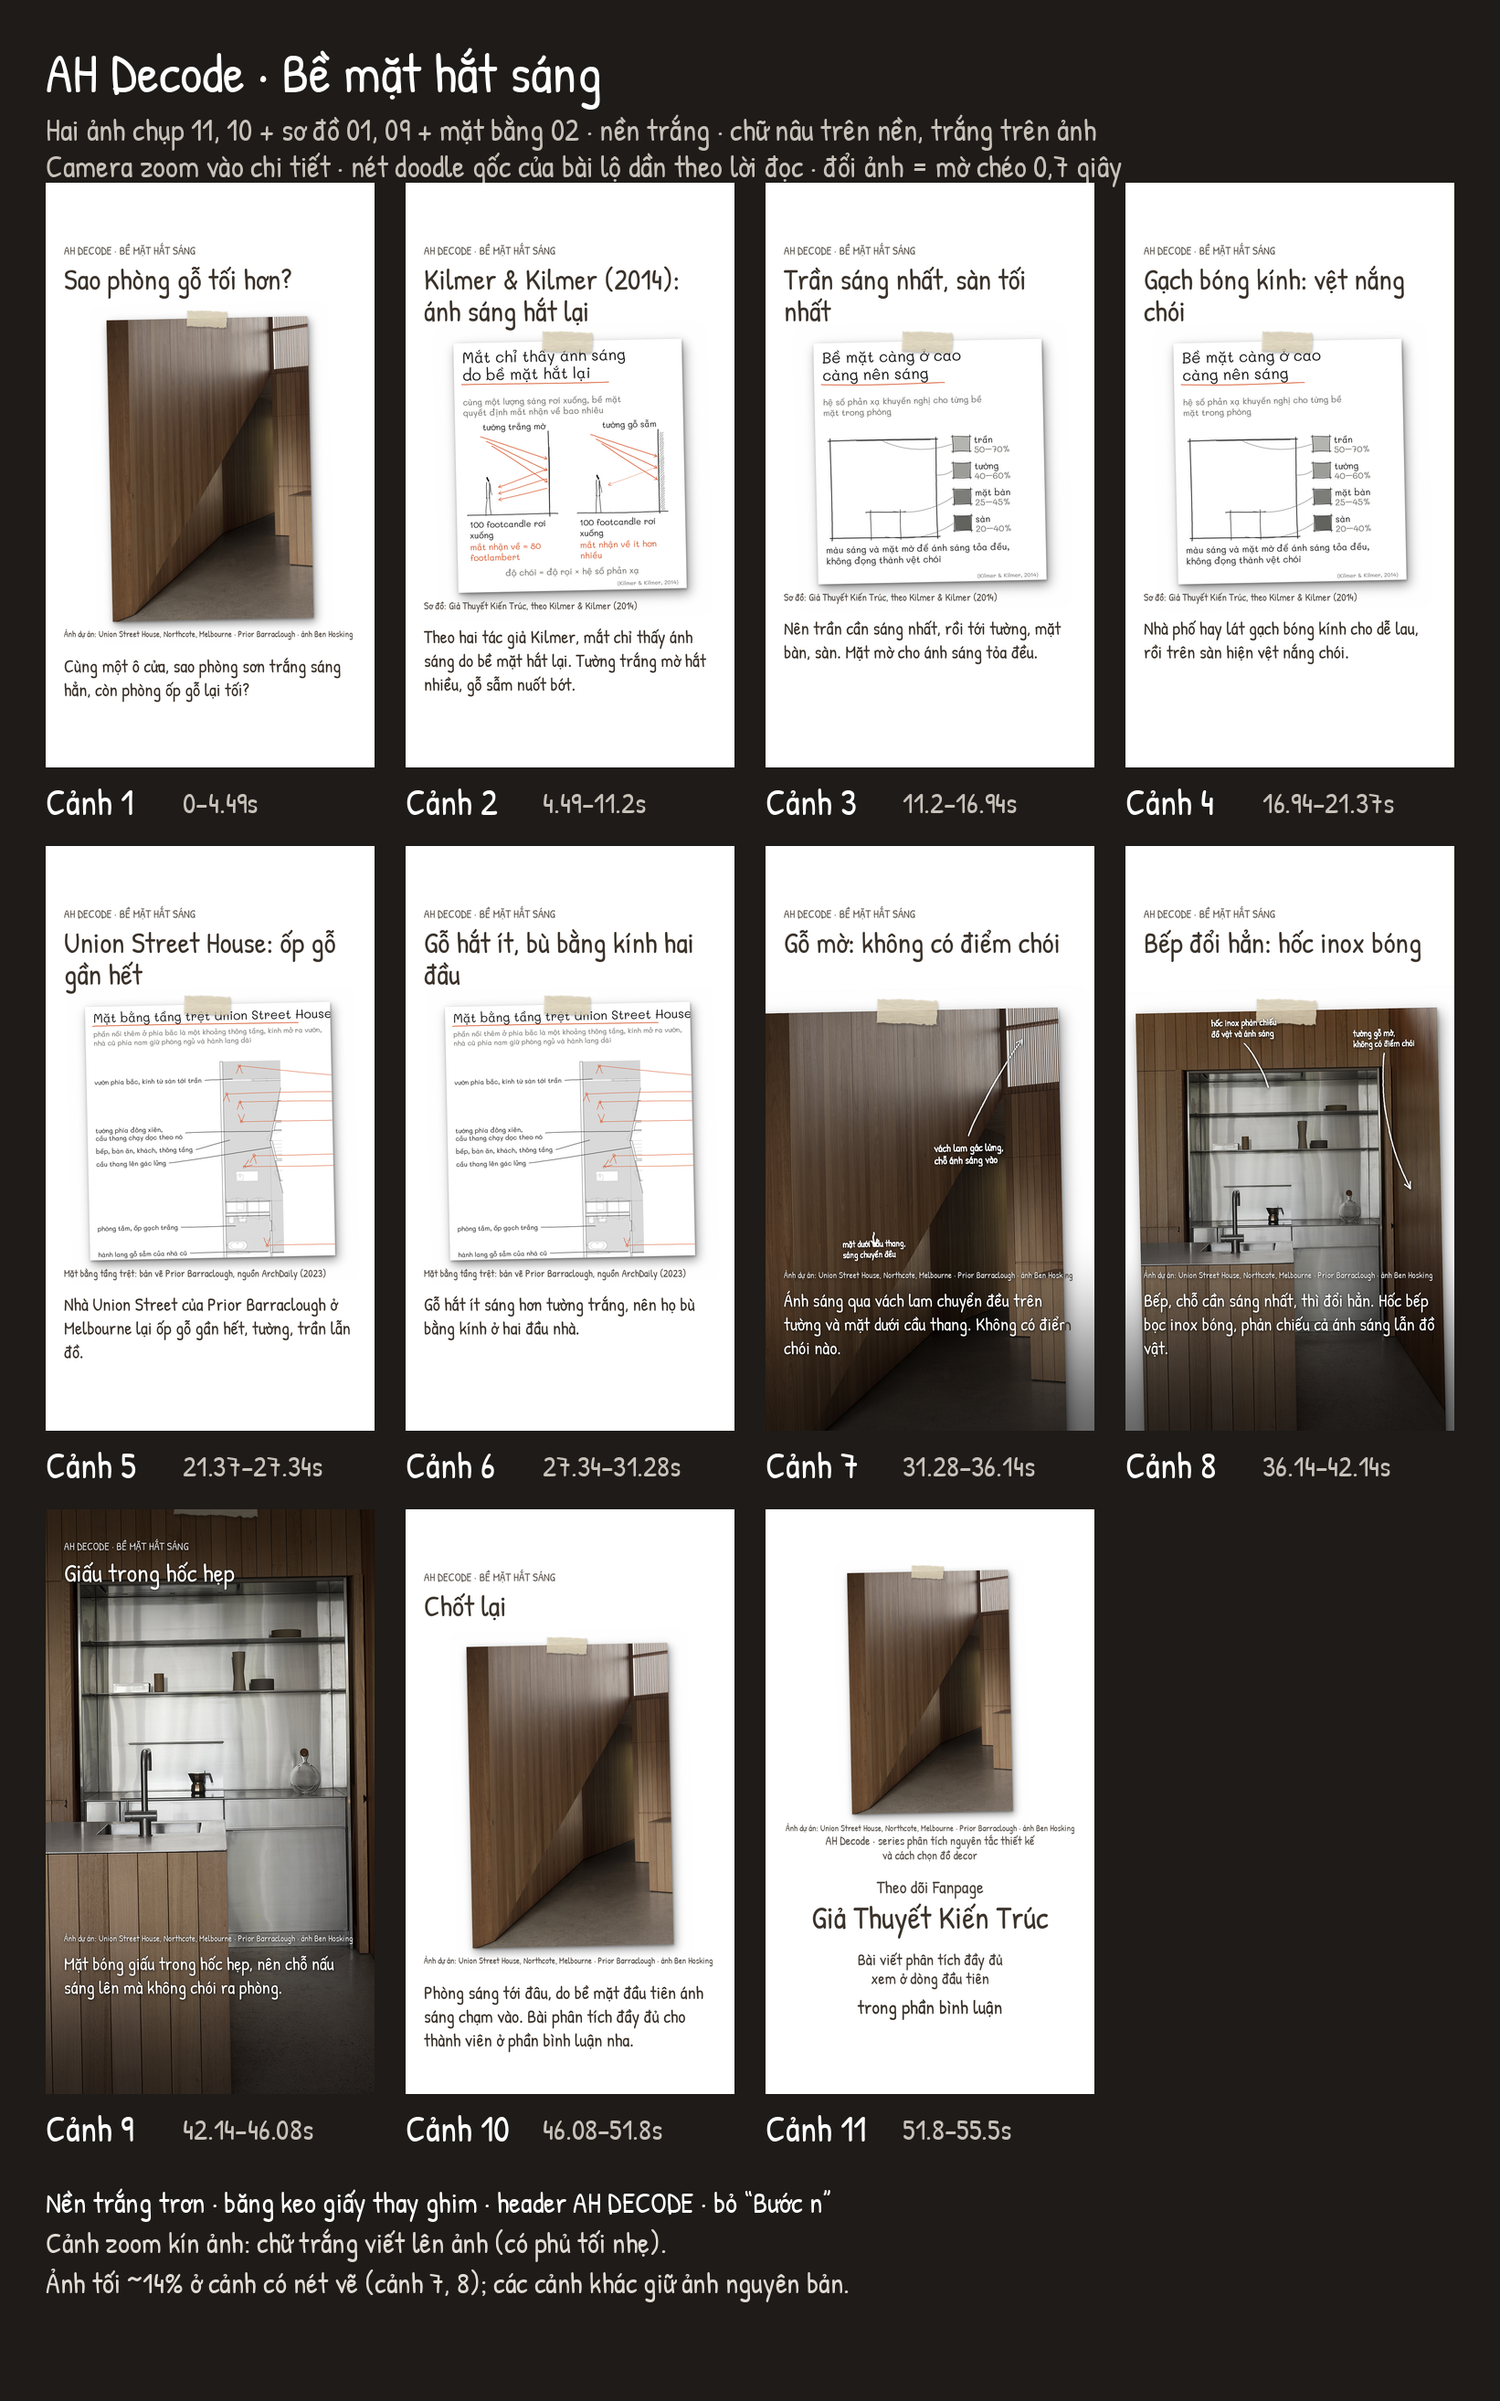
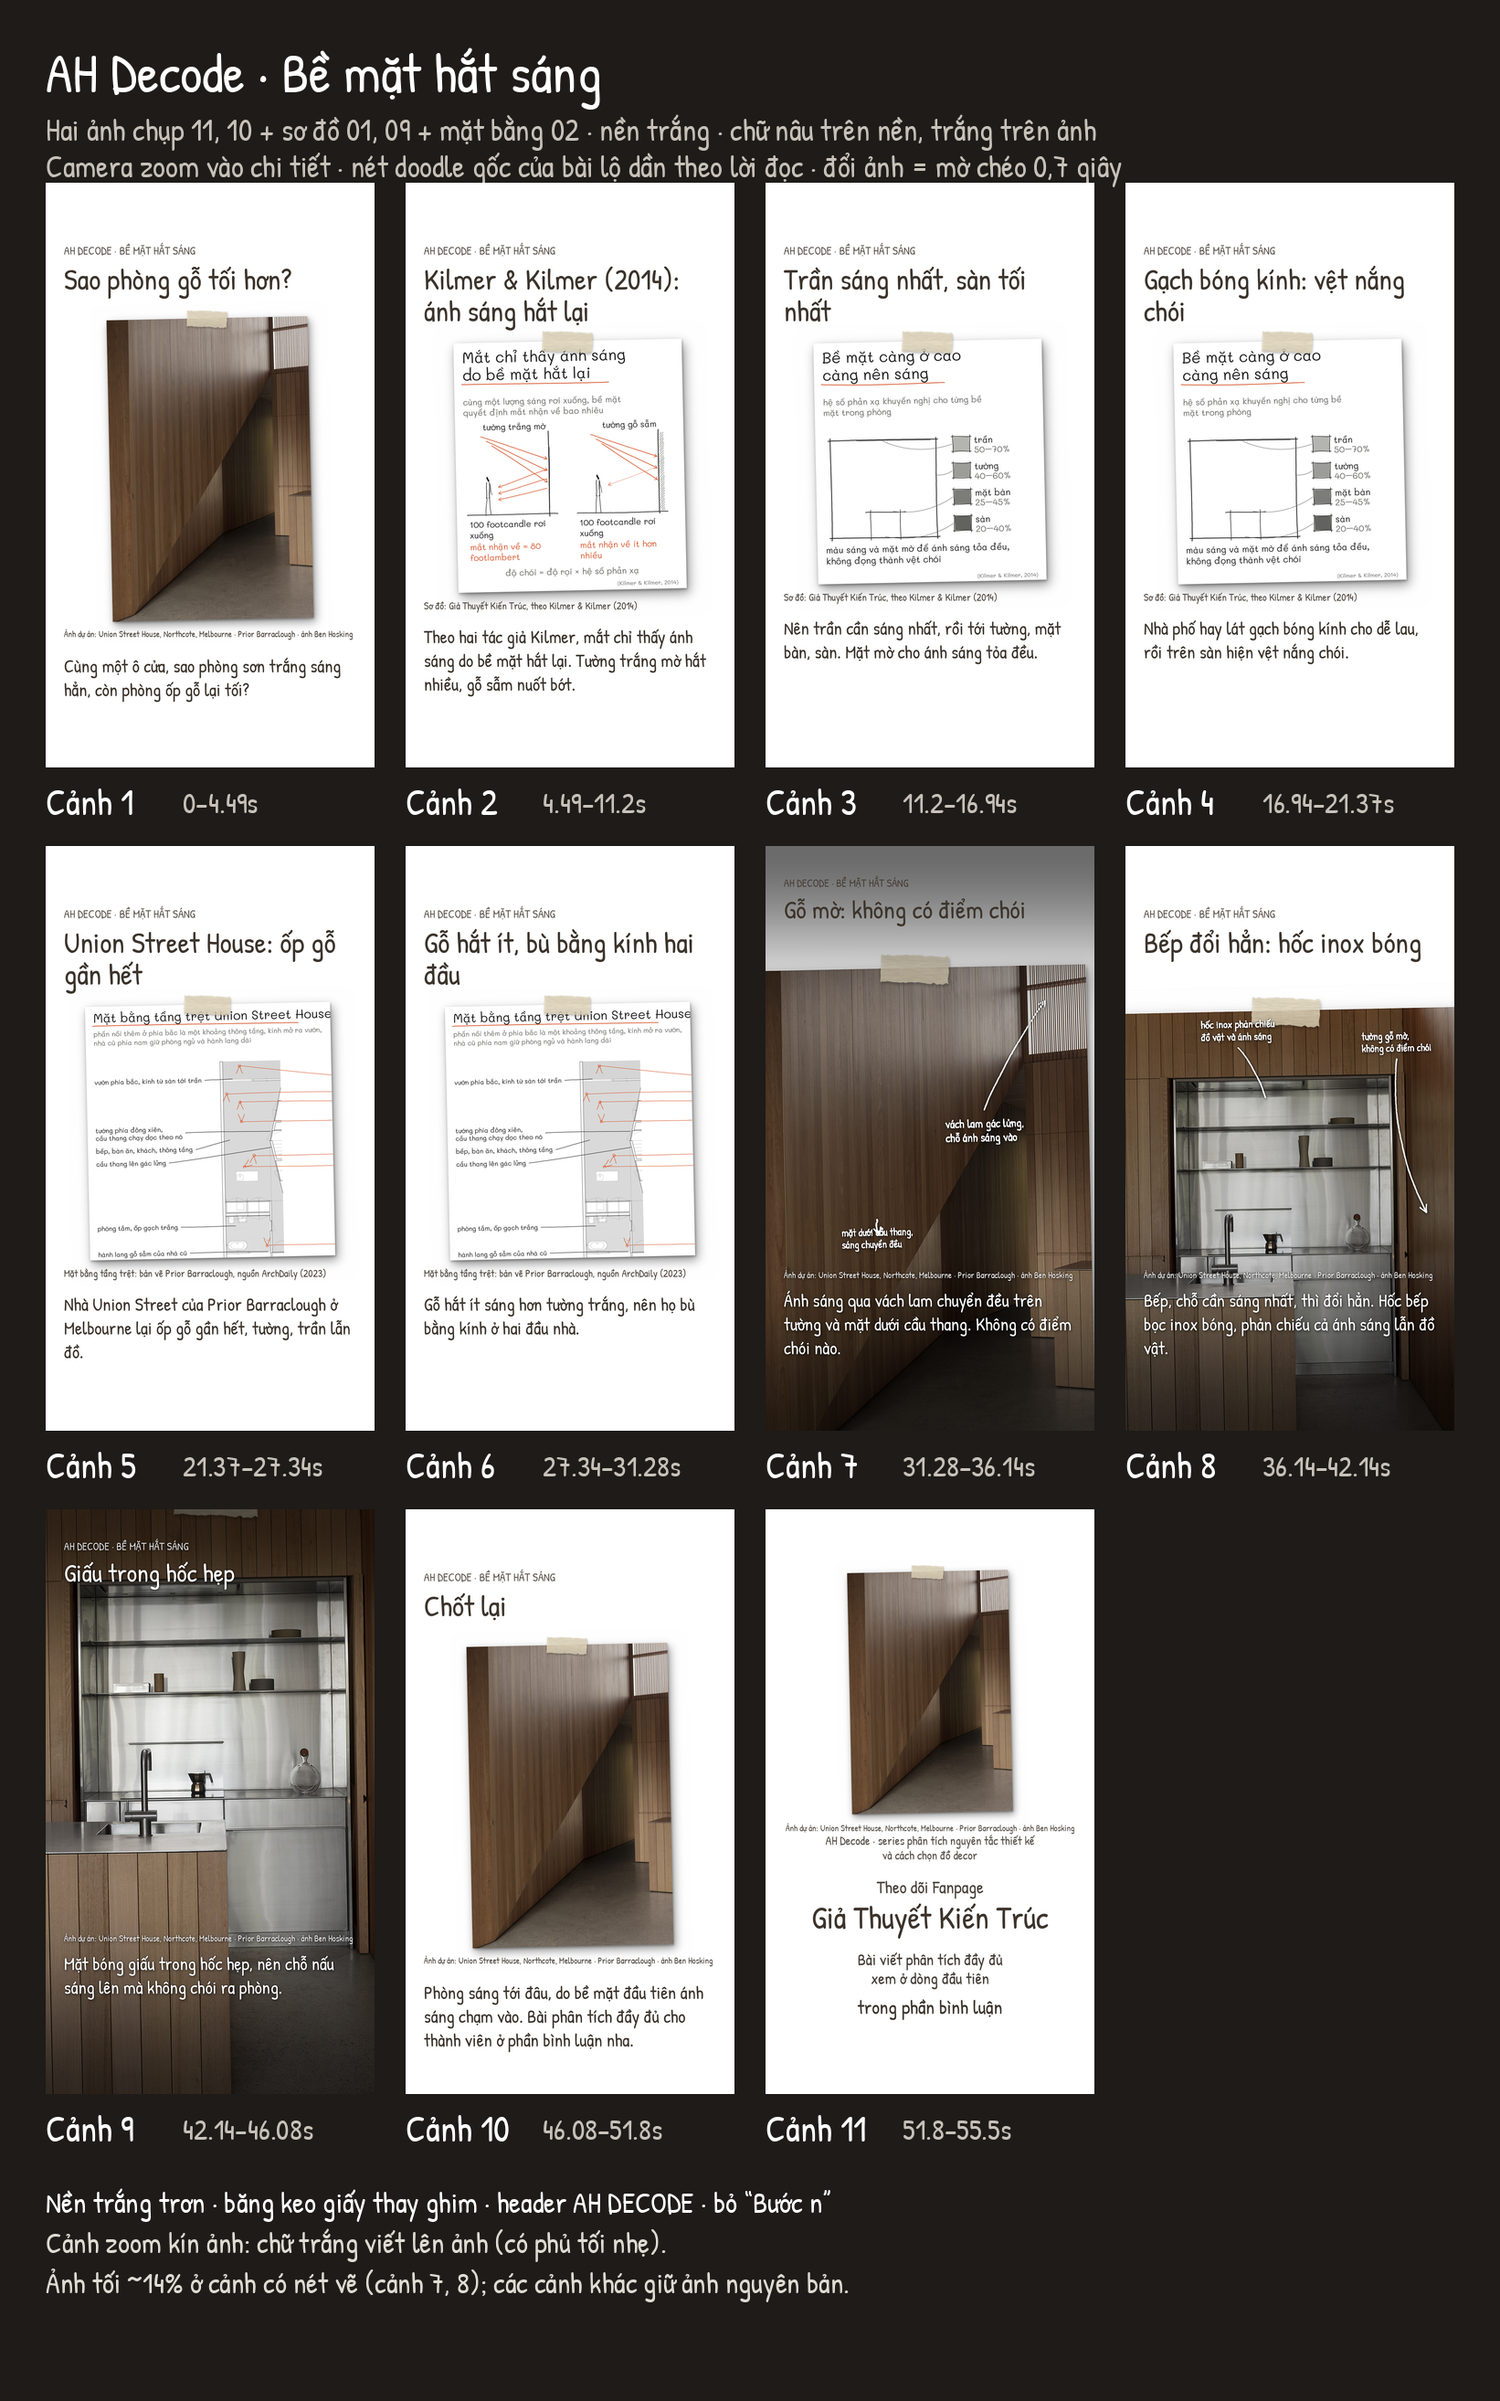
Tập 7: sửa cảnh 7–8 (ảnh phủ kín bề ngang, chữ không rơi ra nền trắng)
Claude-Session: https://claude.ai/code/session_01SFeZZHNvcw1VbkvnnHQjv6

Changed region(s): [[0.497, 0.3432, 0.9939, 0.5928]]

diff --git a/inbox/out/2026-10-21_be-mat-hat-sang/engine_ep07/engine_ep07.py b/inbox/out/2026-10-21_be-mat-hat-sang/engine_ep07/engine_ep07.py
@@ -576,9 +576,9 @@ SCENES = [
     dict(t="27.34–31.28s", img="mb", head="Gỗ hắt ít, bù bằng kính hai đầu", vo="Gỗ hắt ít sáng hơn tường trắng, nên họ bù bằng kính ở hai đầu nhà.",
          cam=('C', 1.15, ('top', 520)), dark=False, dd=[]),
     dict(t="31.28–36.14s", img="main", head="Gỗ mờ: không có điểm chói", vo="Ánh sáng qua vách lam chuyển đều trên tường và mặt dưới cầu thang. Không có điểm chói nào.",
-         cam=((900, 1000), 1.5, ('top', 540)), dark=True, dd=['arr_lam', 'lab_lam', 'lab_cauthang']),
+         cam=((850, 1000), 1.7, ('top', 400)), dark=True, dd=['arr_lam', 'lab_lam', 'lab_cauthang']),
     dict(t="36.14–42.14s", img="inox", head="Bếp đổi hẳn: hốc inox bóng", vo="Bếp, chỗ cần sáng nhất, thì đổi hẳn. Hốc bếp bọc inox bóng, phản chiếu cả ánh sáng lẫn đồ vật.",
-         cam=((800, 900), 1.5, ('top', 540)), dark=True, dd=['arr_inox', 'lab_inox', 'arr_go', 'lab_go']),
+         cam=((800, 900), 1.7, ('top', 540)), dark=True, dd=['arr_inox', 'lab_inox', 'arr_go', 'lab_go']),
     dict(t="42.14–46.08s", img="inox", head="Giấu trong hốc hẹp", vo="Mặt bóng giấu trong hốc hẹp, nên chỗ nấu sáng lên mà không chói ra phòng.",
          cam=((760, 750), 2.1, ('cover', 540, 900)), dark=False, dd=[]),
     dict(t="46.08–51.8s", img="main", head="Chốt lại", vo="Phòng sáng tới đâu, do bề mặt đầu tiên ánh sáng chạm vào. Bài phân tích đầy đủ cho thành viên ở phần bình luận nha.",

diff --git a/inbox/out/2026-10-21_be-mat-hat-sang/engine_ep07/engine_video_ep07.py b/inbox/out/2026-10-21_be-mat-hat-sang/engine_ep07/engine_video_ep07.py
@@ -577,9 +577,9 @@ SCENES = [
     dict(t="27.34–31.28s", img="mb", head="Gỗ hắt ít, bù bằng kính hai đầu", vo="Gỗ hắt ít sáng hơn tường trắng, nên họ bù bằng kính ở hai đầu nhà.",
          cam=('C', 1.15, ('top', 520)), dark=False, dd=[]),
     dict(t="31.28–36.14s", img="main", head="Gỗ mờ: không có điểm chói", vo="Ánh sáng qua vách lam chuyển đều trên tường và mặt dưới cầu thang. Không có điểm chói nào.",
-         cam=((900, 1000), 1.5, ('top', 540)), dark=True, dd=['arr_lam', 'lab_lam', 'lab_cauthang']),
+         cam=((850, 1000), 1.7, ('top', 400)), dark=True, dd=['arr_lam', 'lab_lam', 'lab_cauthang']),
     dict(t="36.14–42.14s", img="inox", head="Bếp đổi hẳn: hốc inox bóng", vo="Bếp, chỗ cần sáng nhất, thì đổi hẳn. Hốc bếp bọc inox bóng, phản chiếu cả ánh sáng lẫn đồ vật.",
-         cam=((800, 900), 1.5, ('top', 540)), dark=True, dd=['arr_inox', 'lab_inox', 'arr_go', 'lab_go']),
+         cam=((800, 900), 1.7, ('top', 540)), dark=True, dd=['arr_inox', 'lab_inox', 'arr_go', 'lab_go']),
     dict(t="42.14–46.08s", img="inox", head="Giấu trong hốc hẹp", vo="Mặt bóng giấu trong hốc hẹp, nên chỗ nấu sáng lên mà không chói ra phòng.",
          cam=((760, 750), 2.1, ('cover', 540, 900)), dark=False, dd=[]),
     dict(t="46.08–51.8s", img="main", head="Chốt lại", vo="Phòng sáng tới đâu, do bề mặt đầu tiên ánh sáng chạm vào. Bài phân tích đầy đủ cho thành viên ở phần bình luận nha.",

diff --git a/inbox/out/2026-10-21_be-mat-hat-sang/engine_ep07/gen_ep07.py b/inbox/out/2026-10-21_be-mat-hat-sang/engine_ep07/gen_ep07.py
@@ -31,9 +31,9 @@ SC = [
          tts="Nhà Diu-ni-ơn Xtrít của Prai-ơ Ba-ra-clo ở Meo-bơn lại ốp gỗ gần hết, tường, trần lẫn đồ."),
     dict(part="E", img="mb", head="Gỗ hắt ít, bù bằng kính hai đầu", cam=("C", 1.15, ("top", 520)), dark=False, dd=[],
          vo="Gỗ hắt ít sáng hơn tường trắng, nên họ bù bằng kính ở hai đầu nhà."),
-    dict(part="E", img="main", head="Gỗ mờ: không có điểm chói", cam=((900, 1000), 1.5, ("top", 540)), dark=True, dd=["arr_lam", "lab_lam", "lab_cauthang"],
+    dict(part="E", img="main", head="Gỗ mờ: không có điểm chói", cam=((850, 1000), 1.7, ("top", 400)), dark=True, dd=["arr_lam", "lab_lam", "lab_cauthang"],
          vo="Ánh sáng qua vách lam chuyển đều trên tường và mặt dưới cầu thang. Không có điểm chói nào."),
-    dict(part="E", img="inox", head="Bếp đổi hẳn: hốc inox bóng", cam=((800, 900), 1.5, ("top", 540)), dark=True, dd=["arr_inox", "lab_inox", "arr_go", "lab_go"],
+    dict(part="E", img="inox", head="Bếp đổi hẳn: hốc inox bóng", cam=((800, 900), 1.7, ("top", 540)), dark=True, dd=["arr_inox", "lab_inox", "arr_go", "lab_go"],
          vo="Bếp, chỗ cần sáng nhất, thì đổi hẳn. Hốc bếp bọc inox bóng, phản chiếu cả ánh sáng lẫn đồ vật."),
     dict(part="E", img="inox", head="Giấu trong hốc hẹp", cam=((760, 750), 2.1, COVER), dark=False, dd=[],
          vo="Mặt bóng giấu trong hốc hẹp, nên chỗ nấu sáng lên mà không chói ra phòng."),
